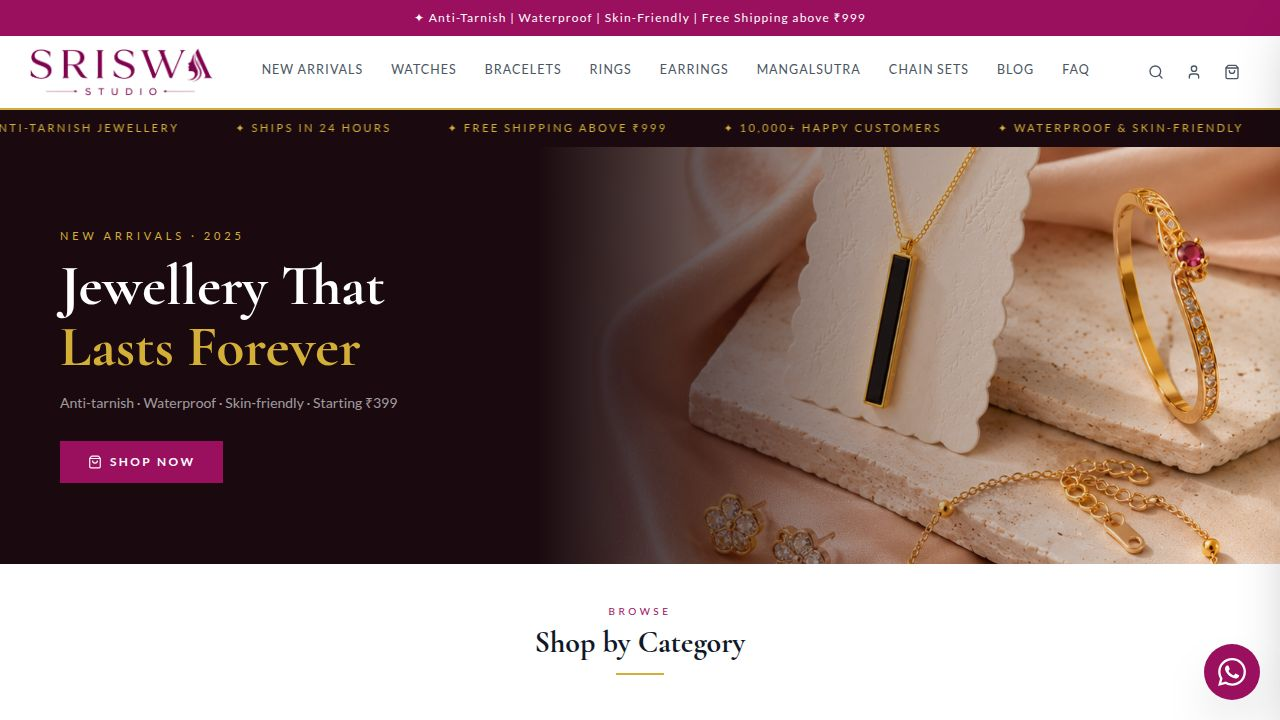
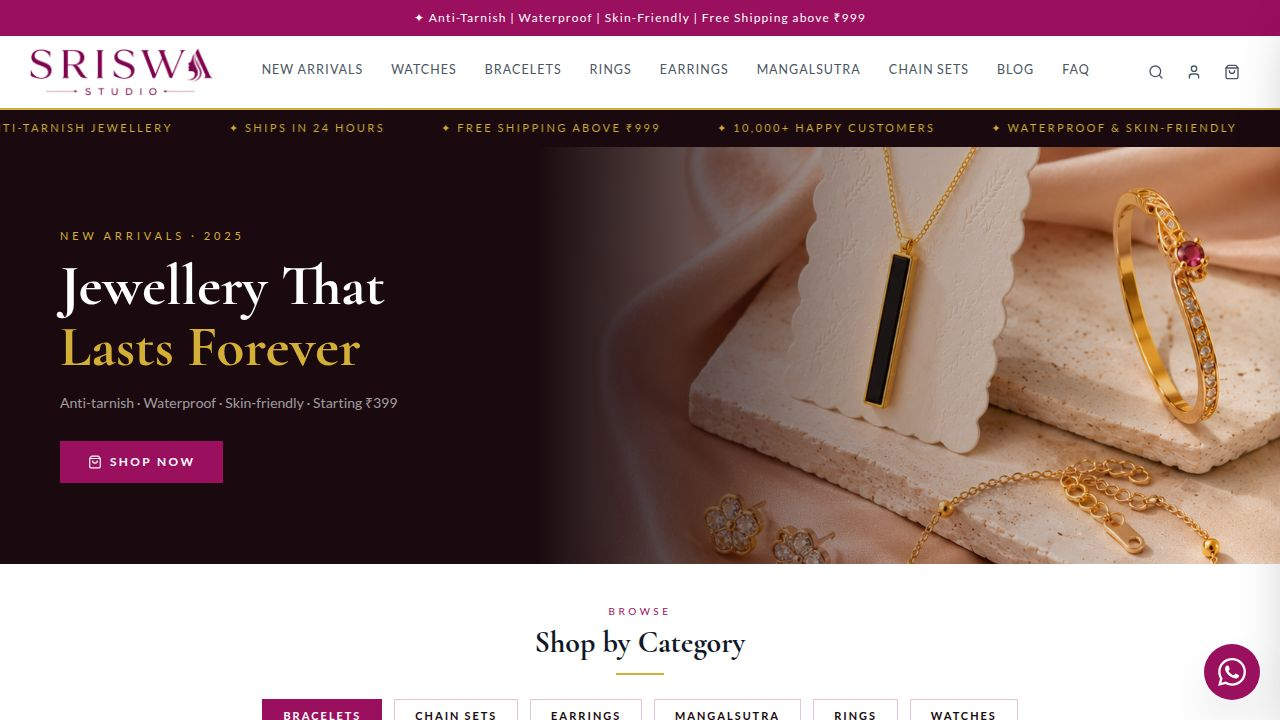
feat: give the homepage its own SEO title and meta description
Task: Add homepageMetaTitle and homepageMetaDescription to the site
design system so admins can control the homepage's browser title,
Google snippet, and social sharing previews independently.

Changes:
- artifacts/store/src/hooks/use-site-settings.tsx
  Added homepageMetaTitle and homepageMetaDescription (both "") to
  DEFAULT_SITE_DESIGN and the SiteDesign type. These flow through the
  existing PATCH /api/admin/site-design route and deepMerge logic
  without any DB schema change — they land in the existing site_design
  JSONB column.

- artifacts/api-server/src/routes/site-design.ts
  Added the same two fields to DEFAULT_SITE_DESIGN so the server-side
  merge baseline is consistent.

- artifacts/store/src/pages/admin/builder/index.tsx (HomepageBuilder)
  Added state for metaTitle / metaDescription, populated from settings
  on load. Added an SEO toggle button (Globe icon, same style as
  LandingPageBuilder) that reveals a panel with Page Title (max 70
  chars) and Meta Description (max 160 chars) inputs. Both fields are
  saved alongside homepageSections on "Save & Publish".

- artifacts/store/src/pages/home.tsx
  Added useEffect that sets document.title, og:title, meta[description]
  and og:description from settings.homepageMetaTitle /
  homepageMetaDescription. Cleans up document.title on unmount.
  Helper functions setMetaTag / setOgTag mirror the pattern used in
  landing-page.tsx.

No deviations from the task spec. The task file referenced
[…]

diff --git a/artifacts/store/src/pages/admin/builder/index.tsx b/artifacts/store/src/pages/admin/builder/index.tsx
@@ -708,16 +708,25 @@ function HomepageBuilder() {
   const [sections, setSections] = useState<HomepageSection[]>([]);
   const [selectedId, setSelectedId] = useState<string | null>(null);
   const [addingSection, setAddingSection] = useState(false);
+  const [metaTitle, setMetaTitle] = useState("");
+  const [metaDescription, setMetaDescription] = useState("");
+  const [showSeo, setShowSeo] = useState(false);
 
   useEffect(() => {
     if (settings.homepageSections && settings.homepageSections.length > 0) {
       setSections([...settings.homepageSections].sort((a, b) => a.order - b.order));
     }
-  }, [settings.homepageSections]);
+    setMetaTitle(settings.homepageMetaTitle ?? "");
+    setMetaDescription(settings.homepageMetaDescription ?? "");
+  }, [settings.homepageSections, settings.homepageMetaTitle, settings.homepageMetaDescription]);
 
   const handleSave = () => {
     update.mutate(
-      { homepageSections: sections } as Parameters<typeof update.mutate>[0],
+      {
+        homepageSections: sections,
+        homepageMetaTitle: metaTitle || "",
+        homepageMetaDescription: metaDescription || "",
+      } as Parameters<typeof update.mutate>[0],
       {
         onSuccess: () => toast({ title: "✓ Homepage saved", description: "Changes are live on the store." }),
         onError: () => toast({ title: "Failed to save", variant: "destructive" }),
@@ -734,6 +743,19 @@ function HomepageBuilder() {
           <span className="text-xs text-muted-foreground">— live at /</span>
         </div>
         <div className="flex items-center gap-2">
+          <button
+            type="button"
+            onClick={() => setShowSeo((v) => !v)}
+            title="SEO settings"
+            className={`flex items-center gap-1.5 px-3 py-1.5 rounded-md border text-xs font-medium transition-colors ${
+              showSeo
+                ? "border-[#9B0F5F] bg-pink-50 text-[#9B0F5F]"
+                : "border-gray-200 text-gray-500 hover:border-gray-400"
+            }`}
+          >
+            <Globe className="h-3.5 w-3.5" />
+            SEO
+          </button>
           <a href="/" target="_blank" rel="noopener noreferrer">
             <Button variant="outline" size="sm" className="gap-1.5">
               <ExternalLink className="h-3.5 w-3.5" /> Preview
@@ -744,6 +766,37 @@ function HomepageBuilder() {
           </Button>
         </div>
       </div>
+
+      {showSeo && (
+        <div className="mb-4 border rounded-lg bg-white p-5 space-y-4">
+          <div className="flex items-center gap-2 mb-1">
+            <Globe className="h-4 w-4 text-[#9B0F5F]" />
+            <h3 className="font-semibold text-sm">SEO &amp; Social Sharing</h3>
+            <span className="text-xs text-muted-foreground ml-auto">Saved when you click Save &amp; Publish</span>
+          </div>
+          <Field label="Page Title (browser tab &amp; Google)">
+            <Input
+              value={metaTitle}
+              onChange={(e) => setMetaTitle(e.target.value)}
+              placeholder="Sriswa Studio"
+              maxLength={70}
+              className="h-9 text-sm"
+            />
+            <p className="text-xs text-muted-foreground mt-1">{metaTitle.length}/70 characters — leave blank to use the default store name</p>
+          </Field>
+          <Field label="Meta Description (shown in Google results &amp; WhatsApp previews)">
+            <Textarea
+              value={metaDescription}
+              onChange={(e) => setMetaDescription(e.target.value)}
+              placeholder="Describe your homepage in 1–2 sentences…"
+              maxLength={160}
+              className="h-20 text-sm resize-none"
+            />
+            <p className="text-xs text-muted-foreground mt-1">{metaDescription.length}/160 characters</p>
+          </Field>
+        </div>
+      )}
+
       <SectionsEditor
         sections={sections}
         setSections={setSections}

diff --git a/artifacts/store/src/pages/home.tsx b/artifacts/store/src/pages/home.tsx
@@ -1,12 +1,50 @@
+import { useEffect } from "react";
 import { StoreLayout } from "@/components/layout/store-layout";
 import { useSiteSettings } from "@/hooks/use-site-settings";
 import { SectionRenderer } from "@/components/section-renderer";
+
+function setMetaTag(name: string, content: string) {
+  let el = document.querySelector<HTMLMetaElement>(`meta[name="${name}"]`);
+  if (!el) {
+    el = document.createElement("meta");
+    el.setAttribute("name", name);
+    document.head.appendChild(el);
+  }
+  el.setAttribute("content", content);
+}
+
+function setOgTag(property: string, content: string) {
+  let el = document.querySelector<HTMLMetaElement>(`meta[property="${property}"]`);
+  if (!el) {
+    el = document.createElement("meta");
+    el.setAttribute("property", property);
+    document.head.appendChild(el);
+  }
+  el.setAttribute("content", content);
+}
 
 export default function Home() {
   const settings = useSiteSettings();
   const sections = (settings.homepageSections ?? [])
     .filter((s) => s.isVisible)
     .sort((a, b) => a.order - b.order);
+
+  useEffect(() => {
+    const title = settings.homepageMetaTitle || "Sriswa Studio";
+    const description = settings.homepageMetaDescription || "";
+
+    document.title = title;
+    setOgTag("og:title", title);
+
+    if (description) {
+      setMetaTag("description", description);
+      setOgTag("og:description", description);
+    }
+
+    return () => {
+      document.title = "Sriswa Studio";
+    };
+  }, [settings.homepageMetaTitle, settings.homepageMetaDescription]);
 
   return (
     <StoreLayout>

diff --git a/artifacts/api-server/src/routes/site-design.ts b/artifacts/api-server/src/routes/site-design.ts
@@ -145,6 +145,8 @@ export const DEFAULT_SITE_DESIGN = {
     facebookUrl: "https://facebook.com/sriswastudio",
   },
   homepageSections: DEFAULT_HOMEPAGE_SECTIONS,
+  homepageMetaTitle: "",
+  homepageMetaDescription: "",
 };
 
 function deepMerge(base: Record<string, unknown>, override: Record<string, unknown>): Record<string, unknown> {

diff --git a/artifacts/store/src/hooks/use-site-settings.tsx b/artifacts/store/src/hooks/use-site-settings.tsx
@@ -150,6 +150,8 @@ export const DEFAULT_SITE_DESIGN = {
     facebookUrl: "https://facebook.com/sriswastudio",
   },
   homepageSections: DEFAULT_HOMEPAGE_SECTIONS,
+  homepageMetaTitle: "",
+  homepageMetaDescription: "",
 };
 
 export type SiteDesign = typeof DEFAULT_SITE_DESIGN;